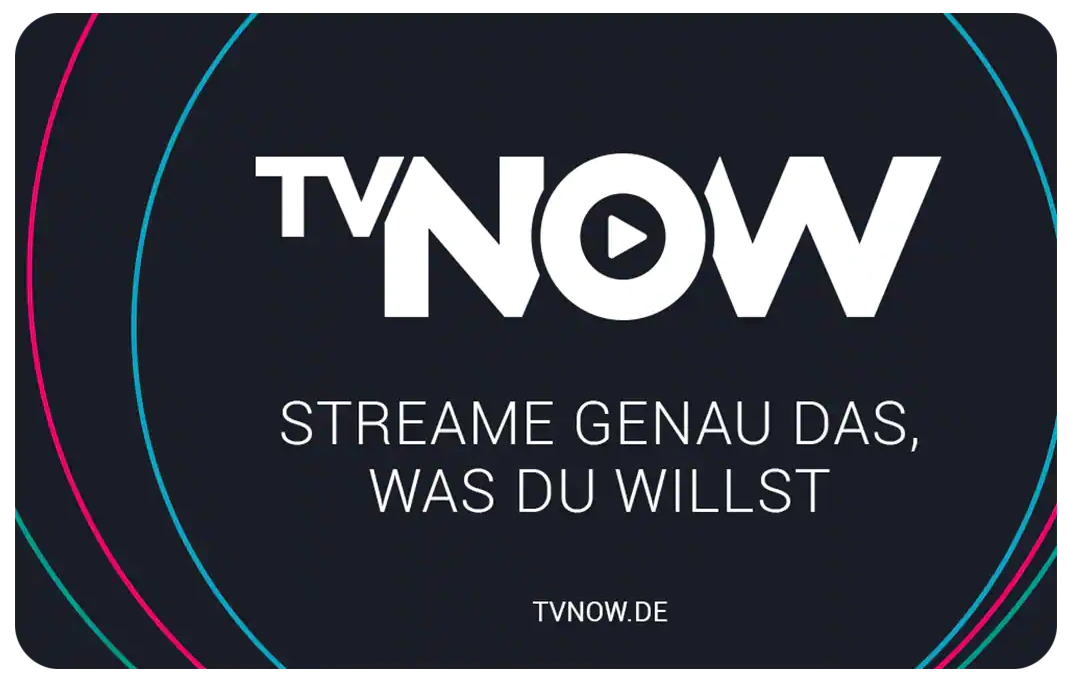
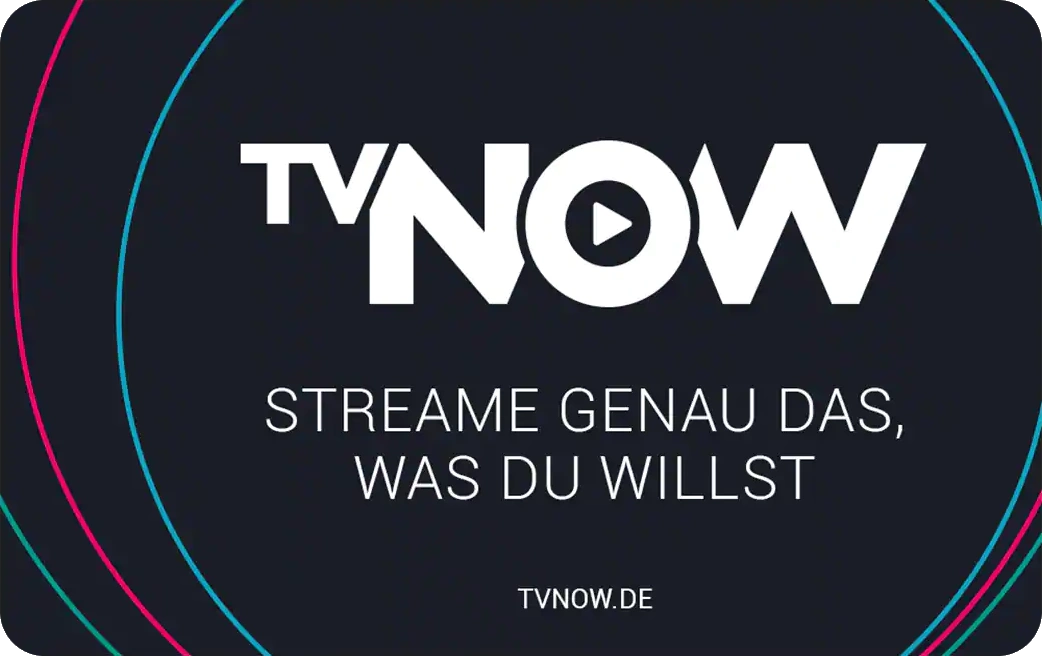
edited image and added line-break

diff --git a/src/lib/site_components/Showcases/tvnow_showcase.svelte b/src/lib/site_components/Showcases/tvnow_showcase.svelte
@@ -12,18 +12,15 @@
 			>
 			<div class="sky_logo">
 				<a href={urls.aboformular}
-					><img
-						alt=""
-						src="/images/external/tvnow.webp"
-						class="sky_logo maxwidth90"
-					/></a
+					><img alt="" src="/images/external/tvnow.webp" class="sky_logo maxwidth90" /></a
 				>
 			</div>
 		</div>
 		<div class="val_break" style="width: 100%;" />
 		<div class="header_text">
 			<h1 class="main_title">
-				Nur für kurze Zeit: Jetzt Sky Wunschpakete buchen und einen TVNOW PREMIUM Gutschein über 12 Monate von Sky erhalten*.
+				Nur für kurze Zeit: Jetzt Sky Wunschpakete buchen und einen TVNOW PREMIUM Gutschein über 12
+				Monate von Sky erhalten*.
 			</h1>
 			<h2 class="subtitle1">Bei Vermittlung über TAGARO zusätzlich mit € 20 Bonus.</h2>
 			<h3 class="subtitle2 to_remove">
@@ -61,7 +58,8 @@
 		>
 		<div class="to_remove">
 			<p style="margin-right:30px;">
-				✓ Bei Buchung von Sky Entertainment + mindestens 1 Paket ein TVNOW PREMIUM Gutschein über 12 Monate on top*
+				✓ Bei Buchung von Sky Entertainment + mindestens 1 Paket <br /> ein TVNOW PREMIUM Gutschein über
+				12 Monate on top*
 			</p>
 		</div>
 		<a href={urls.aboformular}
@@ -123,7 +121,6 @@
 		align-content: center;
 		align-items: center;
 	}
-
 
 	.main_images {
 		order: 0;

diff --git a/src/lib/site_components/main_showcase.svelte b/src/lib/site_components/main_showcase.svelte
@@ -1,6 +1,6 @@
 <script>
 	import TvnowShowcase from './Showcases/tvnow_showcase.svelte';
-	import Amazon20Showcase from './Showcases/Amazon20_showcase.svelte';
+	//import Amazon20Showcase from './Showcases/Amazon20_showcase.svelte';
 </script>
 
 <TvnowShowcase />
